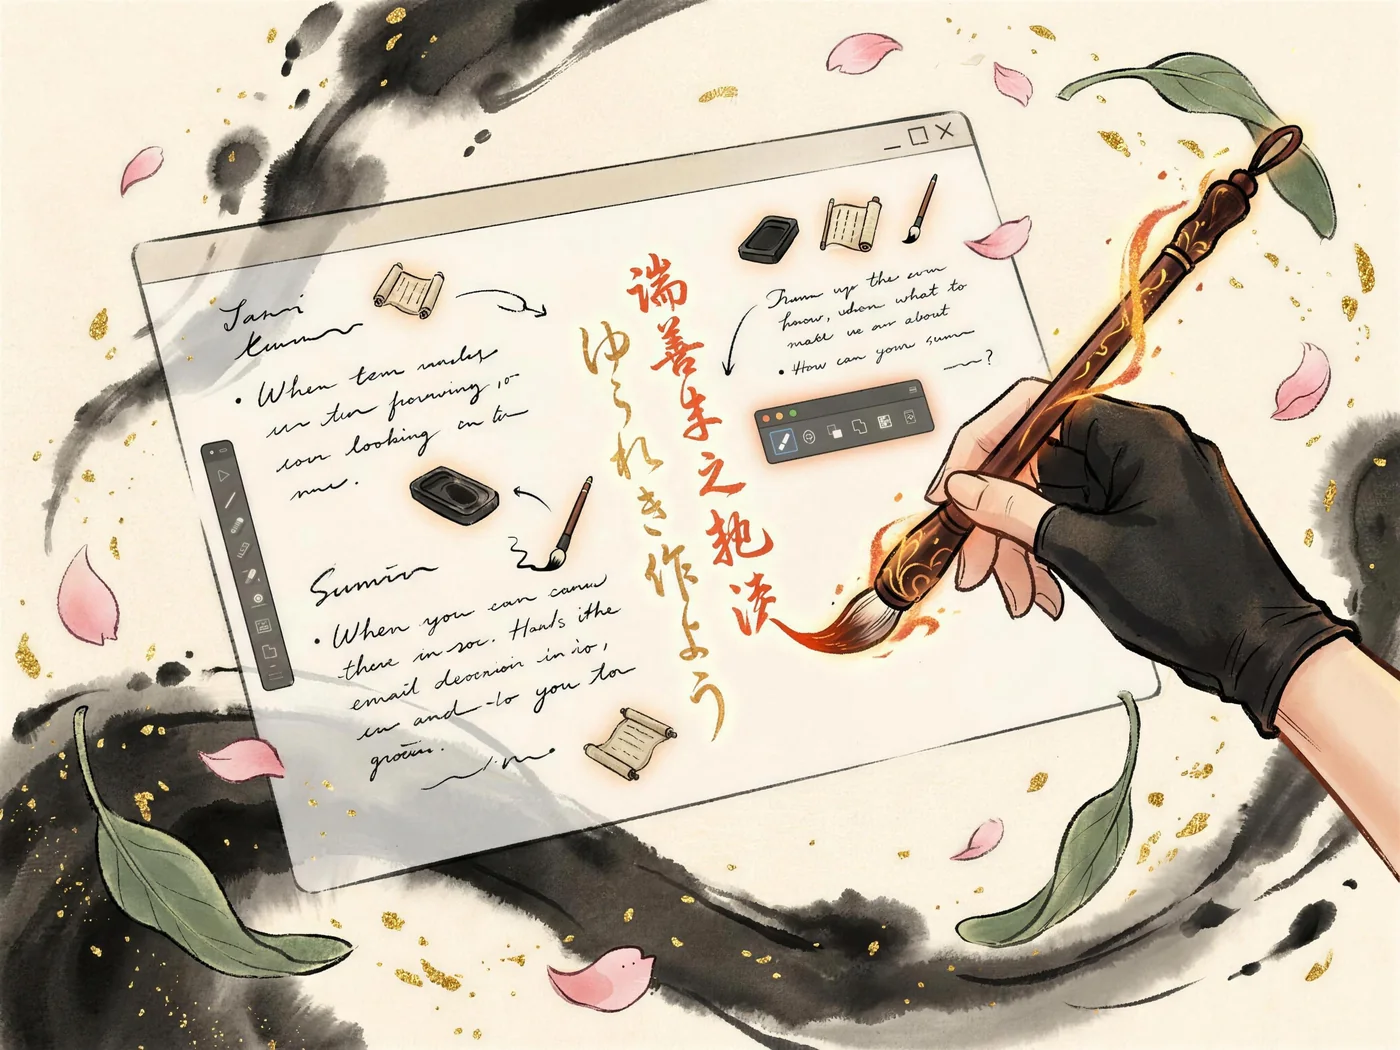
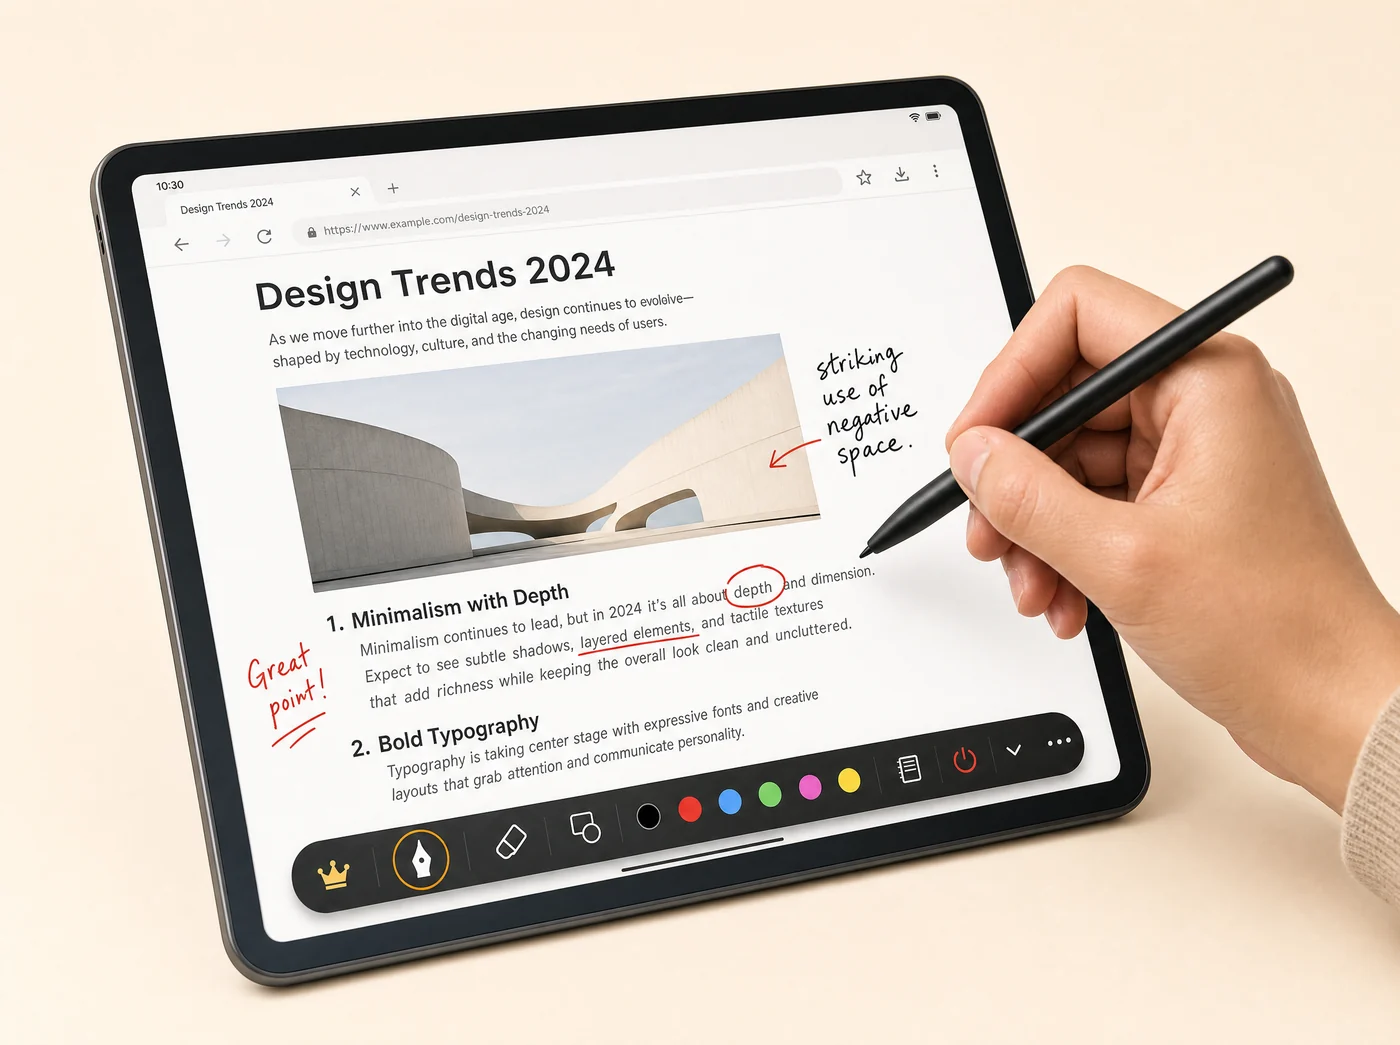
hero headlines change on scroll, bigger wordmark, real OSNote shot
- Hero headline now cross-fades through three lines synced with the scene
  assembly (landscape/sky/torii): "We plant ideas…" → "A few things, made
  properly." → "Grown slowly, built to last." (desktop pin only; mobile keeps
  the first line)
- Enlarge the nav brush "217" wordmark (52 → 78px)
- Replace the OSNote product illustration with a photorealistic tablet +
  stylus product shot that shows the handwriting-layer-over-any-app purpose
  and the floating toolbar (generated via Higgsfield gpt_image_2, ~108KB)

diff --git a/style.css b/style.css
@@ -47,7 +47,7 @@ img { max-width: 100%; height: auto; display: block; }
   background: linear-gradient(180deg, rgba(243,236,220,0.92), rgba(243,236,220,0));
   backdrop-filter: blur(4px);
 }
-.brand-mark { width: 52px; height: 52px; }
+.brand-mark { width: 78px; height: 78px; }
 .nav-links { display: flex; gap: clamp(12px, 2vw, 30px); align-items: center; }
 .nav-links a { font-size: 13px; font-weight: 600; letter-spacing: 0.03em; color: var(--ink-2); transition: color 0.25s; }
 .nav-links a:hover { color: var(--ink); }
@@ -92,12 +92,16 @@ section { padding: clamp(96px, 15vh, 210px) var(--pad); position: relative; }
 
 .hero-content { position: relative; z-index: 5; will-change: transform; }
 .kicker { margin-bottom: 26px; }
-.hero h1 {
+.hero-heads { display: grid; position: relative; }
+.hero-heads .head {
+  grid-area: 1 / 1; margin: 0;
   font-family: "Shippori Mincho", Georgia, serif; font-weight: 800;
   font-size: clamp(48px, 8.8vw, 132px); line-height: 0.98; letter-spacing: -0.015em;
   text-shadow: 0 1px 3px rgba(243,236,220,0.85), 0 2px 44px rgba(243,236,220,0.7);
+  opacity: 0;
 }
-.hero h1 em { font-style: italic; color: var(--vermilion); }
+.hero-heads .head.is-active { opacity: 1; }
+.hero-heads .head em { font-style: italic; color: var(--vermilion); }
 .hero-sub { margin: 26px auto 0; font-size: clamp(15px, 1.7vw, 20px); color: var(--ink-2); max-width: 44ch; }
 .btn {
   display: inline-flex; align-items: center; gap: 9px; padding: 14px 28px; border-radius: 999px;
@@ -287,7 +291,7 @@ html, body { max-width: 100%; overflow-x: hidden; }
 
 /* ---------- phones ---------- */
 @media (max-width: 600px) {
-  .hero h1 { font-size: clamp(33px, 11.4vw, 54px); line-height: 1.03; max-width: 100%; }
+  .hero-heads .head { font-size: clamp(33px, 11.4vw, 54px); line-height: 1.03; max-width: 100%; }
   .hero-sub { font-size: 15px; max-width: 32ch; }
   .hero-cta { gap: 10px; }
   .btn { padding: 12px 20px; font-size: 13px; }
@@ -308,6 +312,6 @@ html, body { max-width: 100%; overflow-x: hidden; }
 /* ---------- very small ---------- */
 @media (max-width: 380px) {
   :root { --pad: 18px; }
-  .hero h1 { font-size: 32px; }
-  .brand-mark { width: 46px; height: 46px; }
+  .hero-heads .head { font-size: 32px; }
+  .brand-mark { width: 58px; height: 58px; }
 }

diff --git a/index.html b/index.html
@@ -20,14 +20,14 @@
   <link rel="preconnect" href="https://fonts.googleapis.com">
   <link rel="preconnect" href="https://fonts.gstatic.com" crossorigin>
   <link href="https://fonts.googleapis.com/css2?family=Manrope:wght@400;500;600;700;800&family=Shippori+Mincho:wght@500;600;700;800&display=swap" rel="stylesheet">
-  <link rel="stylesheet" href="style.css?v=11">
+  <link rel="stylesheet" href="style.css?v=12">
 </head>
 <body>
 
 
   <header class="nav">
     <a class="brand" href="/" aria-label="217 Products home">
-      <img class="brand-mark" src="assets/logo-mark.svg" alt="217 Products" width="60" height="60">
+      <img class="brand-mark" src="assets/logo-mark.svg" alt="217 Products" width="78" height="78">
     </a>
     <nav class="nav-links">
       <a href="#products">Products</a>
@@ -53,7 +53,11 @@
       <aside class="tate tate-r" aria-hidden="true">二一七 · 217</aside>
       <div class="hero-content" data-depth="0.45">
         <p class="kicker rise">独立 · INDEPENDENT PRODUCT STUDIO</p>
-        <h1 class="rise">We plant ideas.<br>We grow <em>products</em>.</h1>
+        <div class="hero-heads rise">
+          <h1 class="head head-1 is-active">We plant ideas.<br>We grow <em>products</em>.</h1>
+          <div class="head head-2" aria-hidden="true">A few things,<br>made <em>properly</em>.</div>
+          <div class="head head-3" aria-hidden="true">Grown slowly,<br>built to <em>last</em>.</div>
+        </div>
         <p class="hero-sub rise">A small, independent studio in Ankara. We shape a few honest products — and tend them for the long run.</p>
         <div class="hero-cta rise">
           <a class="btn primary" href="#products">Explore our craft</a>
@@ -112,7 +116,7 @@
       <p class="eyebrow rise">開花 · IN BLOOM</p>
       <div class="product">
         <figure class="product-art rise" data-parallax="0.12">
-          <img loading="lazy" decoding="async" src="assets/osnote-rich.webp?u=2" alt="A calligraphy brush writing glowing ink over a scroll of notes" width="1200" height="896">
+          <img loading="lazy" decoding="async" src="assets/osnote-rich.webp?u=3" alt="OSNote — a stylus annotating a web article on an Android tablet, with the floating handwriting toolbar" width="1400" height="1045">
           <span class="frame-seal" aria-hidden="true">壱</span>
         </figure>
         <div class="product-body">
@@ -213,6 +217,6 @@
   <script src="https://cdn.jsdelivr.net/npm/gsap@3.15.0/dist/gsap.min.js" integrity="sha384-XmJ9SoHtVOHoQUcKvFAzVXwdkKo1Ie3bhmSoIAkcdsHGaIrVJIkmozyq0FJeb/Ly" crossorigin="anonymous"></script>
   <script src="https://cdn.jsdelivr.net/npm/gsap@3.15.0/dist/ScrollTrigger.min.js" integrity="sha384-wl5TeDVvOWt30Pbf8aSo2ZrzsOjddu3avOBvHe+p+OhJt9gP6w9YXmDkN5DK2/dF" crossorigin="anonymous"></script>
   <script src="https://cdn.jsdelivr.net/npm/lenis@1.3.25/dist/lenis.min.js" integrity="sha384-ClD7pCgIUz5M81HT8aZmMxCsWmfsycmBiwL5gy1pUbdWHvICIbea22N9sTtAFotA" crossorigin="anonymous"></script>
-  <script src="main.js?v=11"></script>
+  <script src="main.js?v=12"></script>
 </body>
 </html>

diff --git a/main.js b/main.js
@@ -73,12 +73,18 @@
       .to(".pl-mount", { autoAlpha: 1, yPercent: 0, duration: 1.5 }, 0)
       .to(".pl-fore",  { autoAlpha: 1, yPercent: 0, duration: 1.5 }, 0.12);
 
+    gsap.set(".head-1", { autoAlpha: 1 });
+    gsap.set([".head-2", ".head-3"], { autoAlpha: 0 });
     gsap.timeline({
       defaults: { ease: "power2.out", duration: 1 },
-      scrollTrigger: { trigger: ".hero", start: "top top", end: "+=150%", pin: true, scrub: 0.7, anticipatePin: 1 }
+      scrollTrigger: { trigger: ".hero", start: "top top", end: "+=160%", pin: true, scrub: 0.7, anticipatePin: 1 }
     })
-      .to(".pl-sky",   { autoAlpha: 1, scale: 1 }, 0.2)      /* scene 2 · sky */
-      .to(".pl-torii", { autoAlpha: 1, yPercent: 0 }, 1.5);  /* scene 3 · torii */
+      .to(".pl-sky",   { autoAlpha: 1, scale: 1 }, 0.2)         /* scene 2 · sky */
+      .to(".head-1",   { autoAlpha: 0, duration: 0.45 }, 0.55)  /* headline 1 → 2 */
+      .to(".head-2",   { autoAlpha: 1, duration: 0.45 }, 0.72)
+      .to(".pl-torii", { autoAlpha: 1, yPercent: 0 }, 1.5)      /* scene 3 · torii */
+      .to(".head-2",   { autoAlpha: 0, duration: 0.45 }, 1.85)  /* headline 2 → 3 */
+      .to(".head-3",   { autoAlpha: 1, duration: 0.45 }, 2.02);
 
     /* light mouse parallax (desktop only) */
     if (matchMedia("(pointer: fine)").matches) {